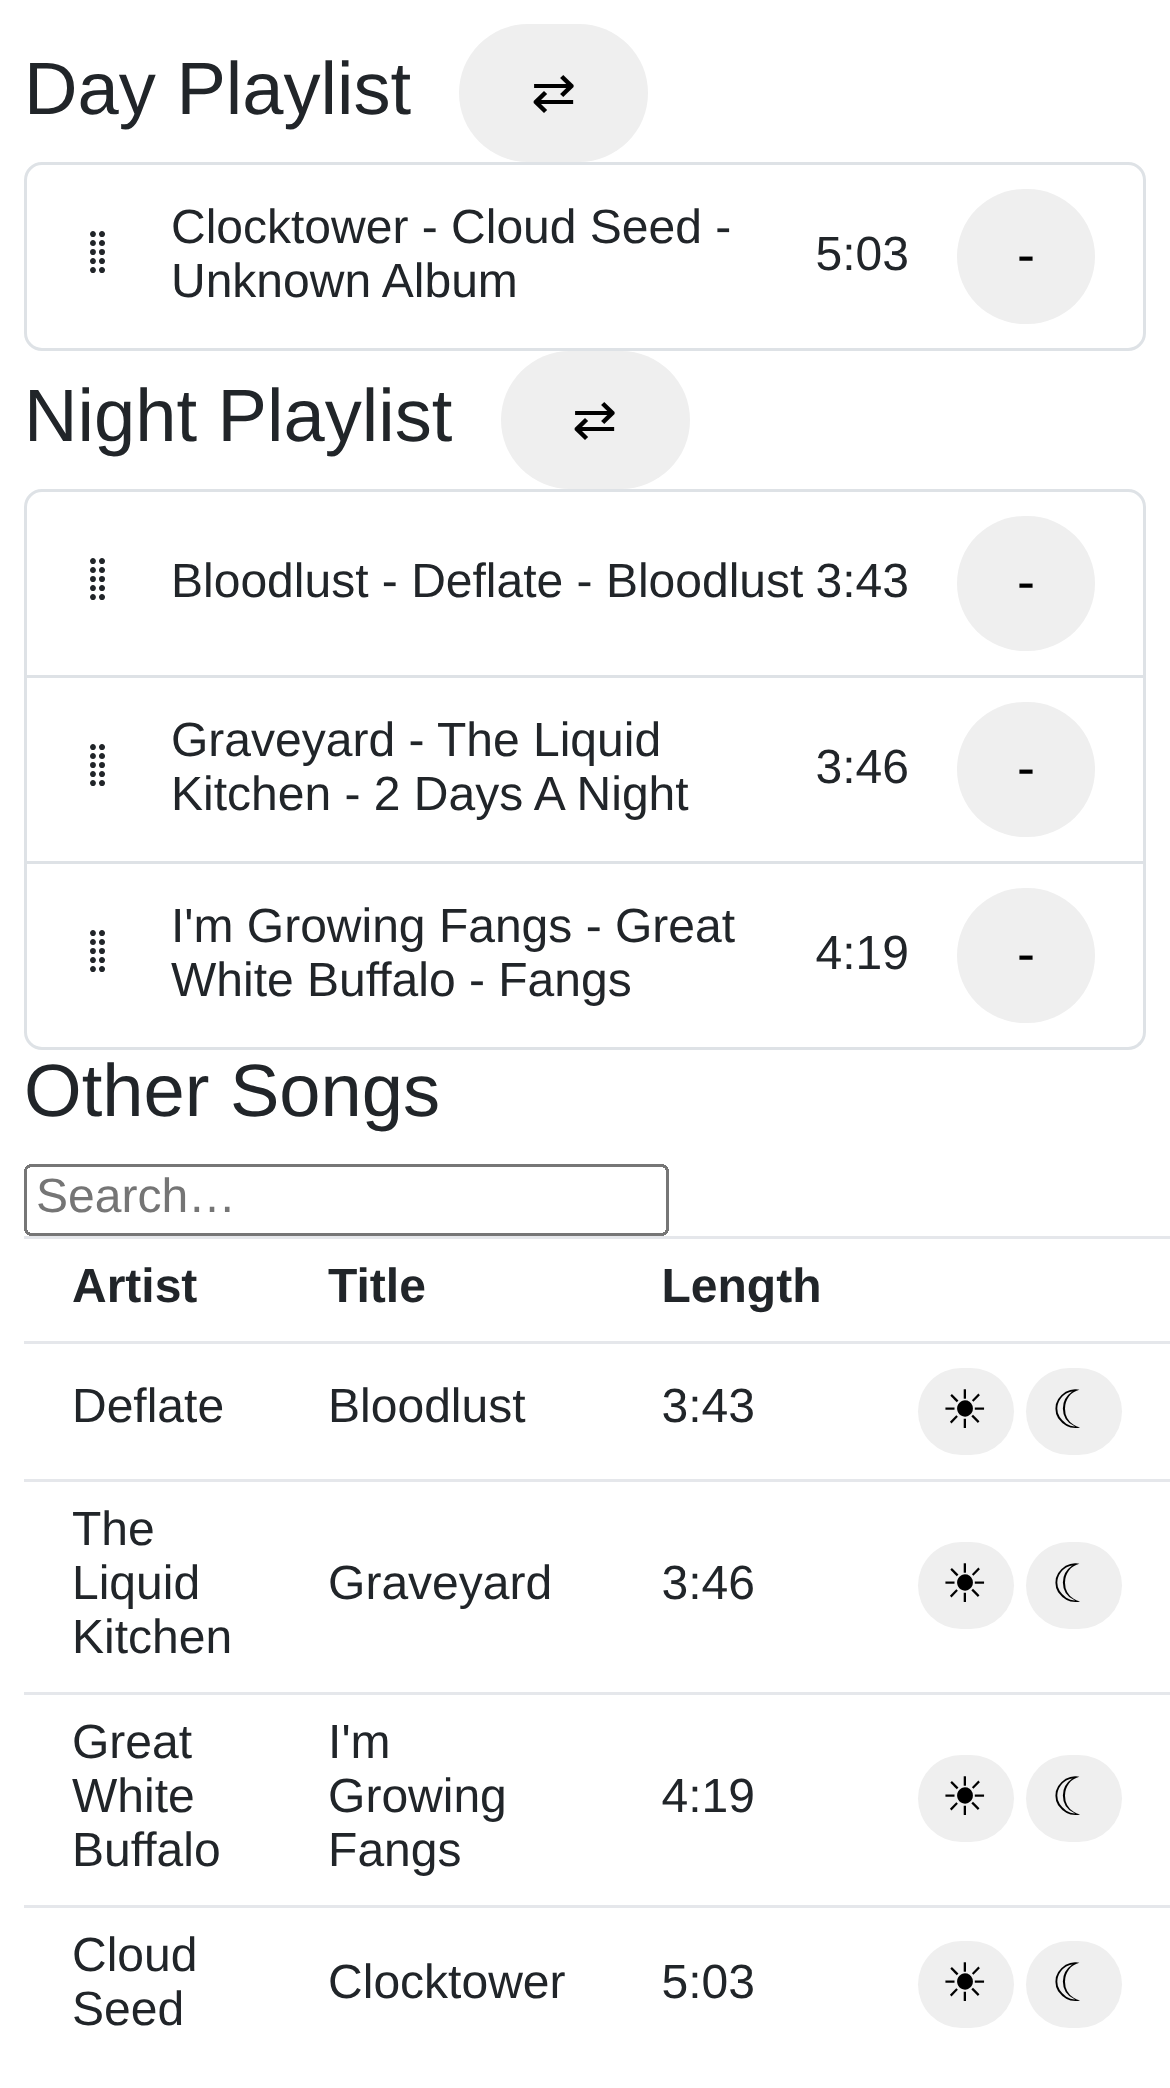
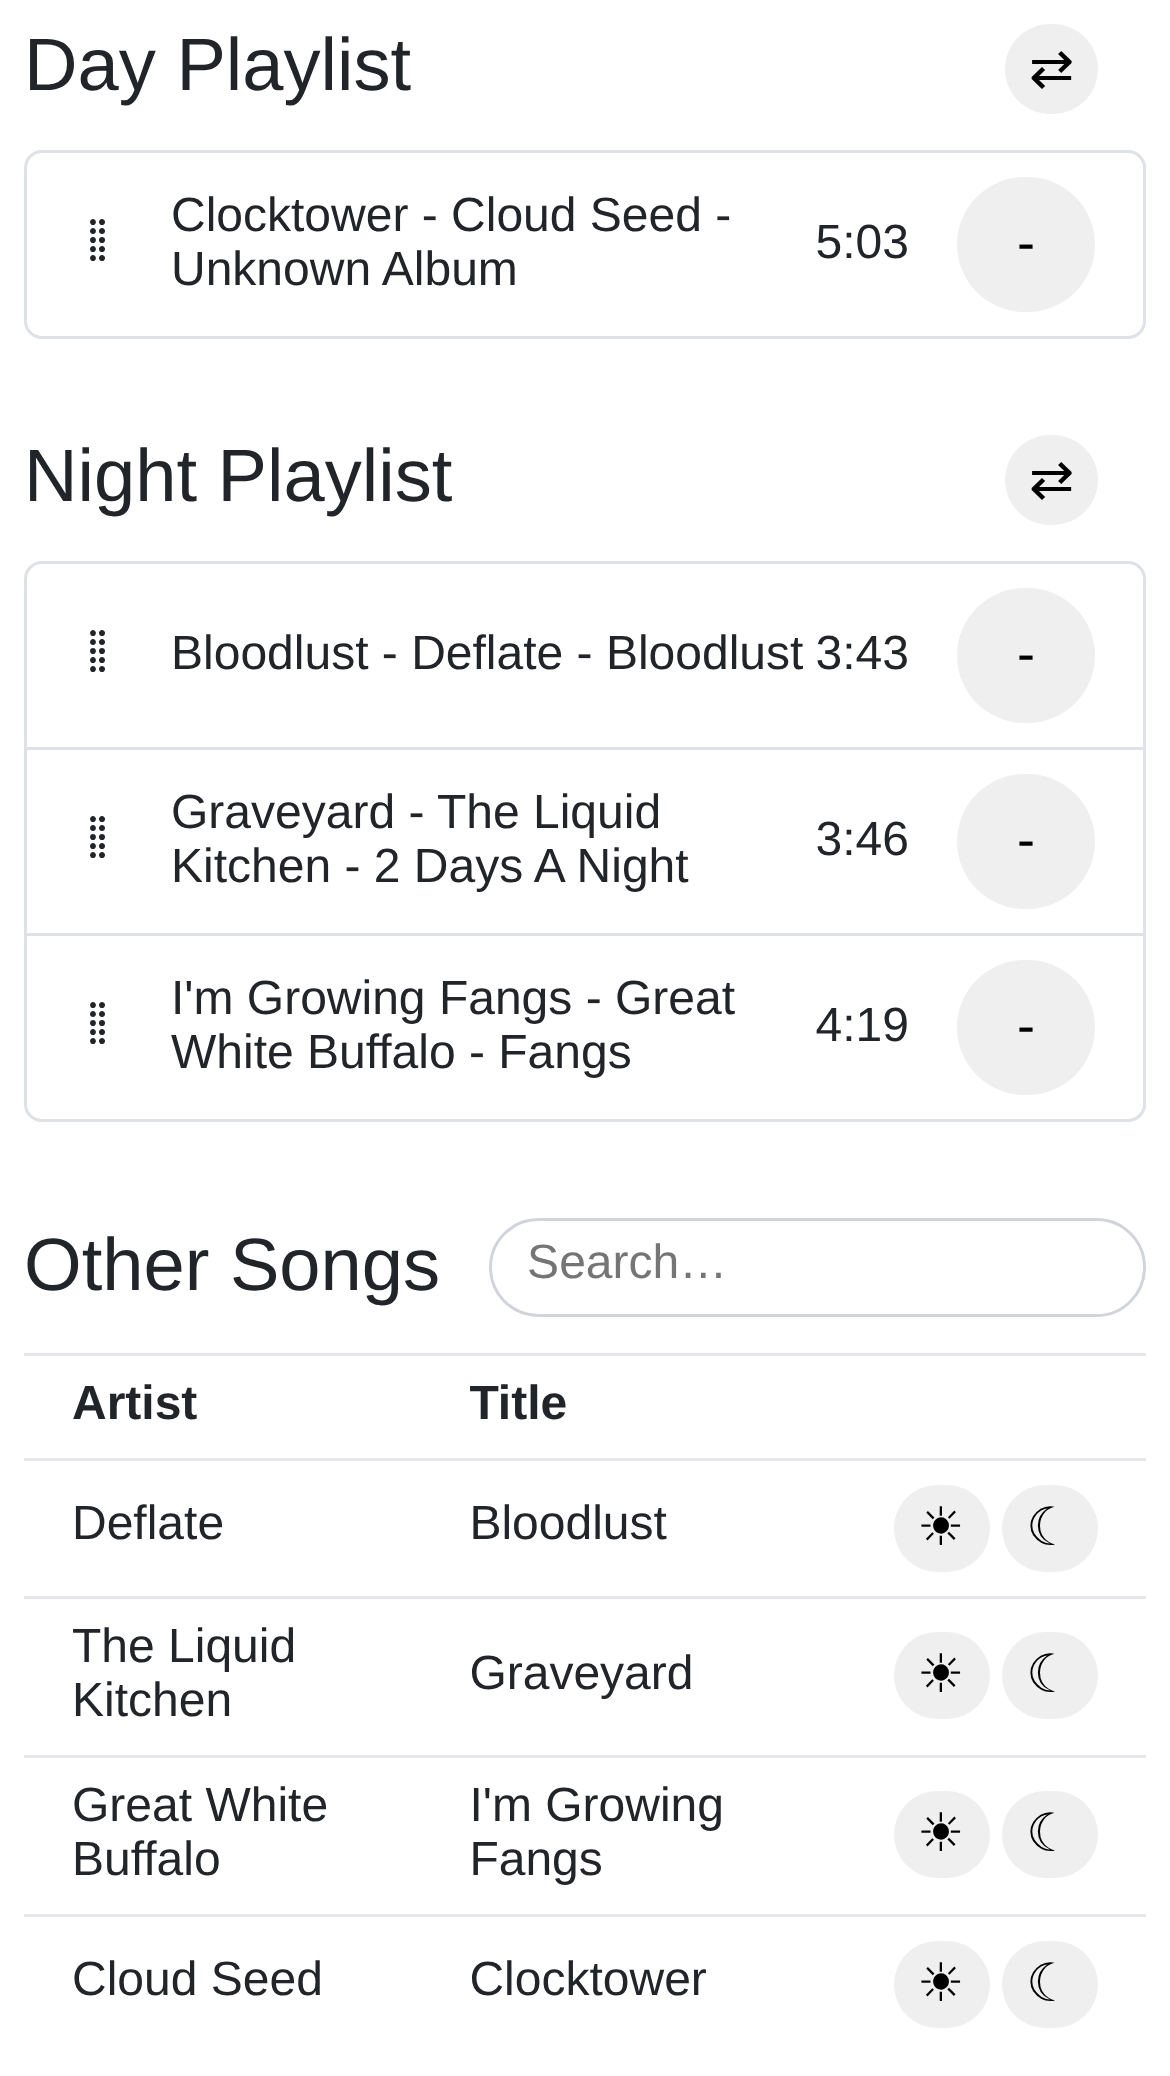
Improve styling on Playlists page

diff --git a/App/Components/Pages/Playlists.razor.css b/App/Components/Pages/Playlists.razor.css
@@ -1,11 +1,48 @@
+#day-playlist,
+#night-playlist {
+	display: flex;
+	flex-direction: column;
+	gap: 0.75rem;
+}
+
+#night-playlist,
+#other-songs {
+	margin-top: 2rem;
+}
+
+#other-songs .playlist-header {
+	margin-bottom: 0.75rem;
+}
+
 .playlist-header {
 	display: flex;
 	align-items: center;
 	gap: 1rem;
+	justify-content: space-between;
 }
 
 .playlist-header h2 {
 	margin: 0;
+}
+
+.playlist-header button {
+	padding: 0.25rem 0.5rem;
+}
+
+input[type="search"] {
+	flex: 1;
+	min-width: 0;
+	max-width: 20rem;
+	padding: 0.4rem 0.75rem;
+	border: 1px solid #d1d5db;
+	border-radius: 2rem;
+	font-family: inherit;
+	font-size: inherit;
+	outline: none;
+}
+
+input[type="search"]:focus {
+	border-color: var(--primary-color);
 }
 
 table {
@@ -37,8 +74,12 @@ table td:last-child {
 	font-size: 1.1rem;
 }
 
+.shuffle {
+	margin-right: 1rem;
+}
+
 @media (max-width: 600px) {
-	.col-album {
+	.col-album, .col-length {
 		display: none;
 	}
 }
